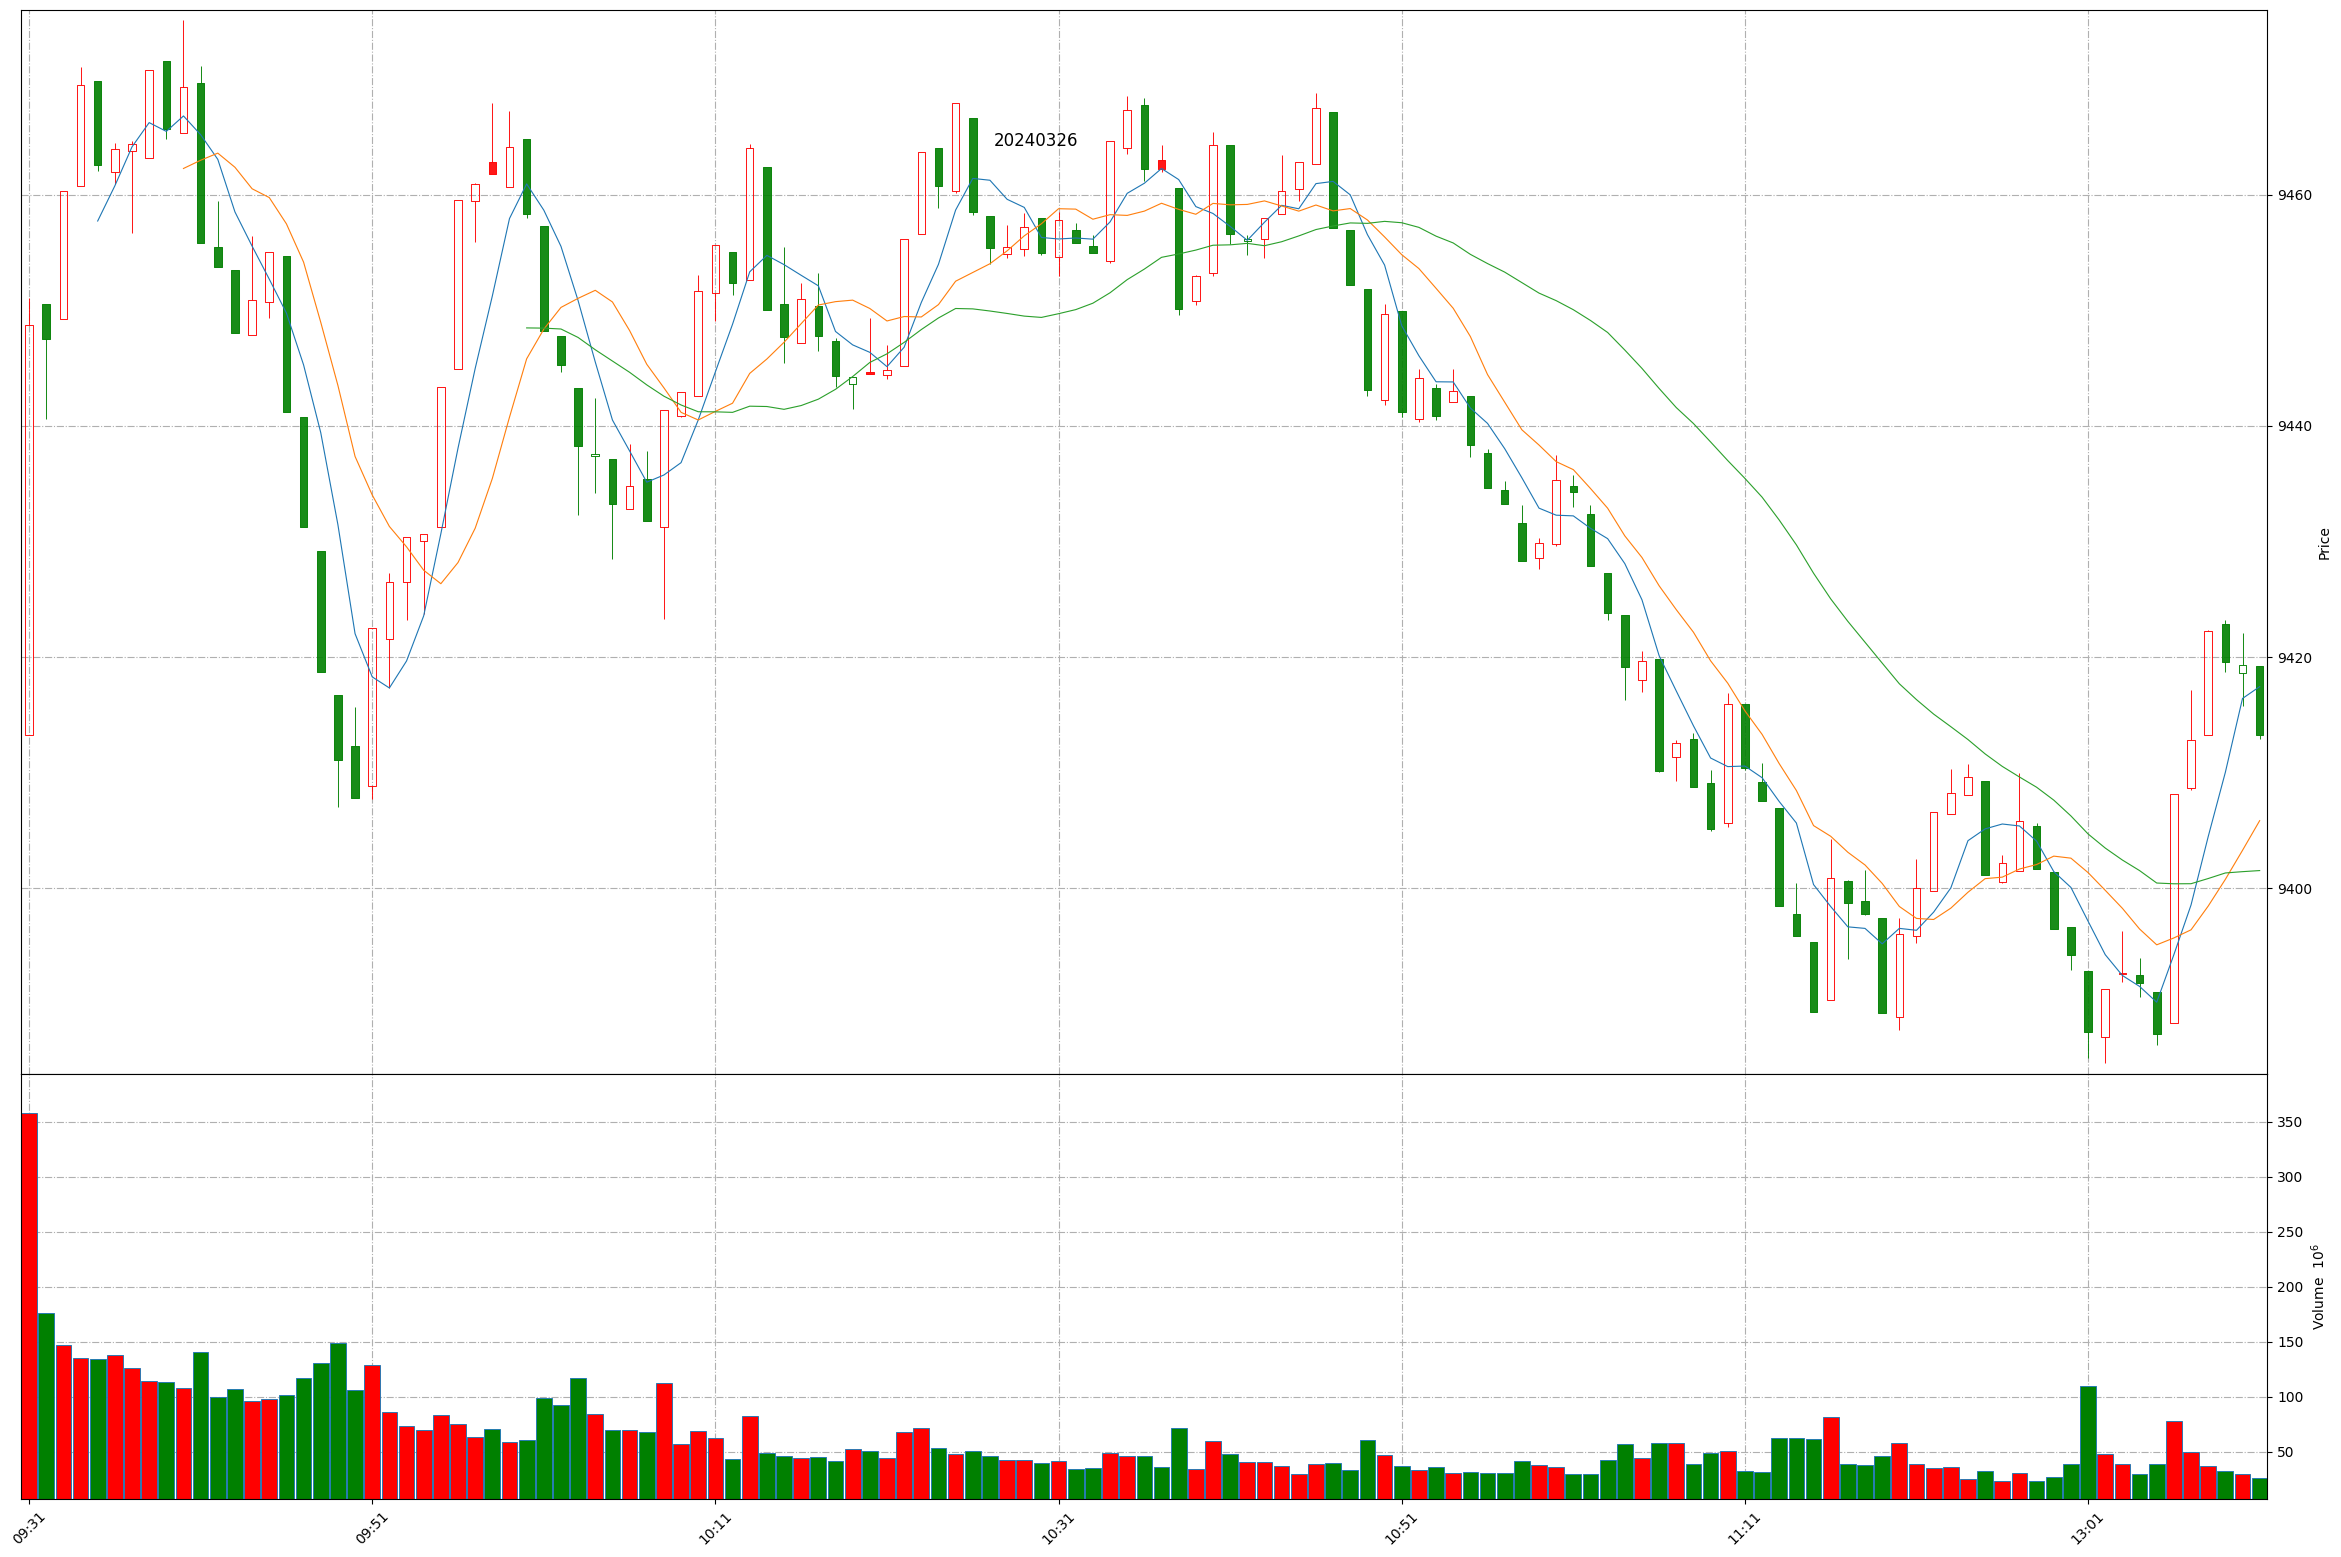
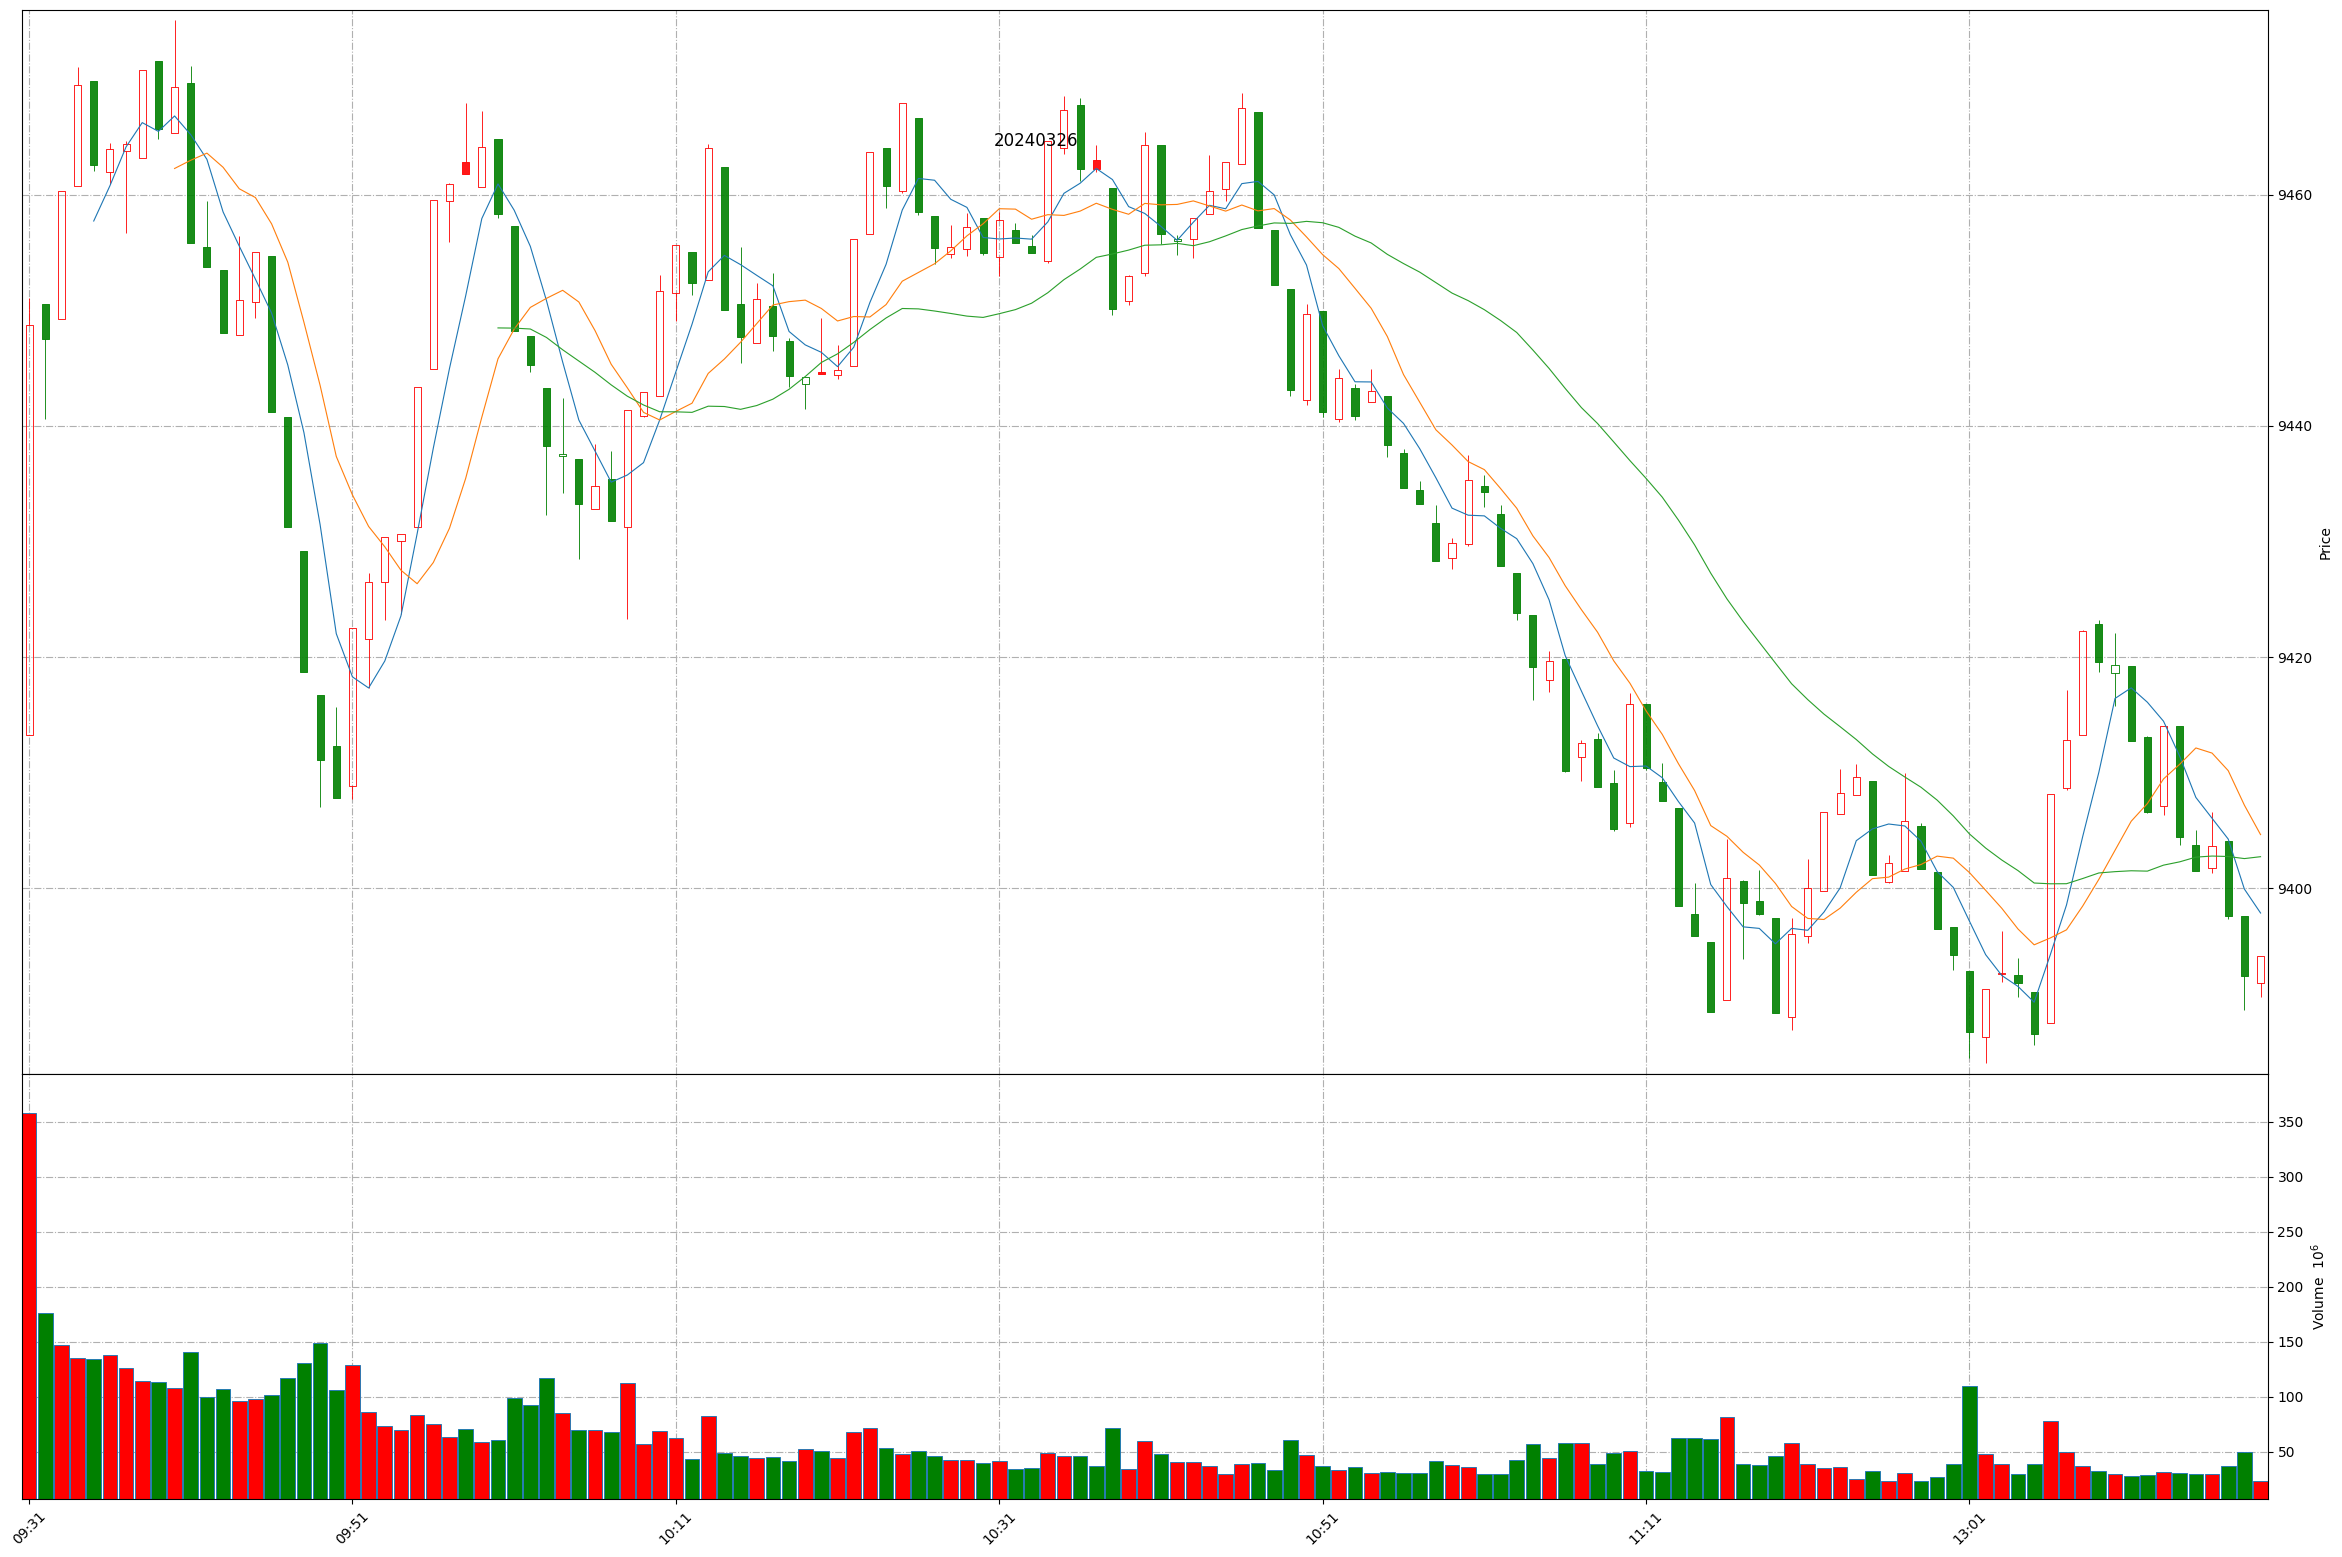
Github action update at 2024-03-26 13:18:35.

Changed region(s): [[0.0312, 0.0308, 0.9667, 0.6782], [0.0, 0.8632, 0.9667, 0.9865], [0.8731, 0.4008, 0.9043, 0.4316]]

diff --git a/README.md b/README.md
@@ -1,11 +1,11 @@
 
 # Daily-A-share-market-quotes 每日 A 股指数（5min 更新）- 20240326
 
-### 上证指数 20240326 13:11
+### 上证指数 20240326 13:18
 ![](./fig/2024/3/20240326-sh000001.png)
 
-### 深证成指 20240326 13:11
+### 深证成指 20240326 13:18
 ![](./fig/2024/3/20240326-sz399001.png)
 
-### 北证50 20240326 13:11
+### 北证50 20240326 13:18
 ![](./fig/2024/3/20240326-bj899050.png)
